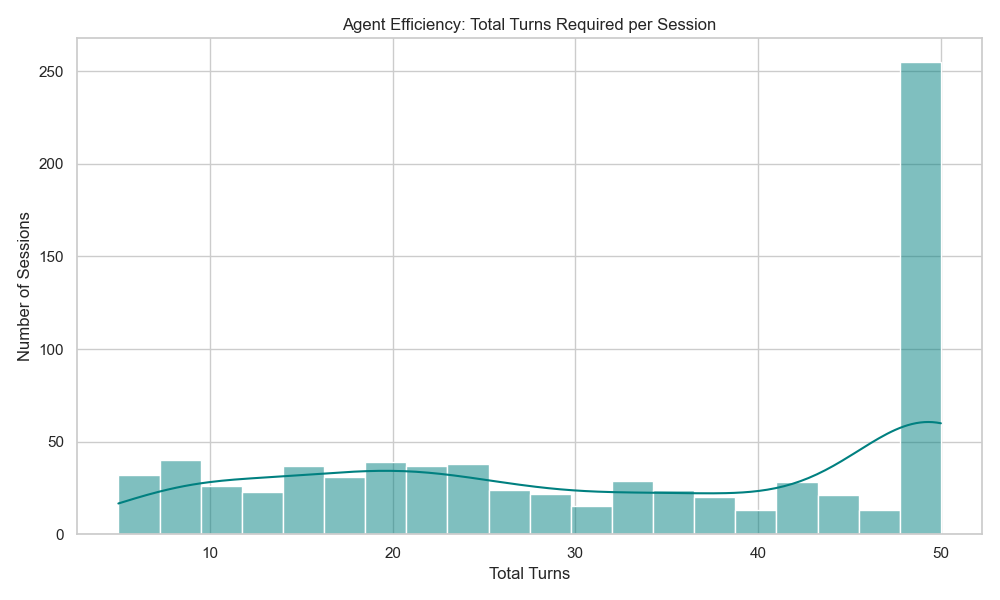
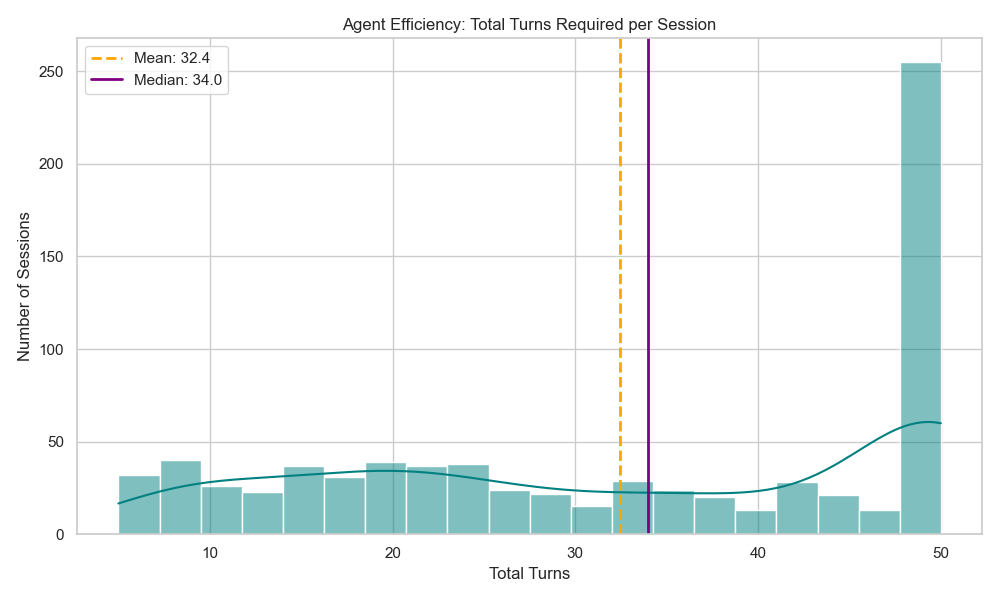
Modify plots, add more data

Changed region(s): [[0.62, 0.06, 0.651, 0.87], [0.093, 0.06, 0.217, 0.15]]

diff --git a/src/exploration/eda_analysis.py b/src/exploration/eda_analysis.py
@@ -24,27 +24,78 @@ class TelemetryEDA:
         logging.info(f"Loading data from {self.data_path}...")
         try:
             self.df = pd.read_csv(self.data_path)
+            
+            # Extract 'source' from 'session_id'
+            if 'session_id' in self.df.columns:
+                self.df['source'] = self.df['session_id'].str.split('__').str[0]
+                logging.info("Successfully extracted 'source' from 'session_id'.")
+            else:
+                logging.warning("'session_id' column not found. Cannot extract 'source'.")
+            
             logging.info(f"Data loaded successfully with {len(self.df)} records.")
         except Exception as e:
             logging.error(f"Failed to load data: {e}")
             raise
 
     def analyze_context_growth(self):
-        """Visualizes how input tokens grow as the turn number increases."""
-        logging.info("Analyzing context growth and token usage...")
-        if 'turn_number' not in self.df.columns or 'input_tokens' not in self.df.columns:
-            logging.warning("Missing 'turn_number' or 'input_tokens' columns. Skipping context growth analysis.")
+        """Visualizes how input tokens grow as the turn number increases, split into subplots by dataset source."""
+        logging.info("Analyzing context growth and token usage by dataset (Horizontal Subplots)...")
+        if not all(col in self.df.columns for col in ['turn_number', 'input_tokens', 'source']):
+            logging.warning("Missing 'turn_number', 'input_tokens', or 'source' columns. Skipping context growth analysis.")
             return
 
-        plt.figure(figsize=(10, 6))
-        sns.lineplot(data=self.df, x='turn_number', y='input_tokens', errorbar='sd')
-        plt.title('Context Explosion: Input Tokens vs. Turn Number')
-        plt.xlabel('Turn Number')
-        plt.ylabel('Input Tokens')
-        plt.tight_layout()
-        plt.savefig(os.path.join(self.output_dir, 'context_growth.png'))
-        plt.close()
+        # --- UPDATED: Horizontal layout, independent axes, same colors/styles ---
+        g = sns.relplot(
+            data=self.df, 
+            x='turn_number', 
+            y='input_tokens', 
+            col='source',       # Creates horizontal subplots side-by-side
+            hue='source',       # Keeps colors consistent for each source
+            kind='line', 
+            errorbar='sd',
+            height=5,           
+            aspect=1.2,
+            # This is the magic command to give each plot its own independent axes!
+            facet_kws={'sharey': False, 'sharex': False} 
+        )
         
+        # Customize overall figure layout and titles
+        g.fig.suptitle('Context Explosion: Input Tokens vs. Turn Number', y=1.05, fontsize=16)
+        g.set_titles(col_template="{col_name}")
+        
+        # Force axis labels to appear on EVERY individual subplot
+        for ax in g.axes.flat:
+            ax.set_xlabel('Turn Number')
+            ax.set_ylabel('Input Tokens')
+        
+        # Save the figure
+        plt.savefig(os.path.join(self.output_dir, 'context_growth.png'), bbox_inches='tight')
+        plt.close()
+        # ----------------------------------------------------------------------
+        
+    def analyze_token_distribution(self):
+        """Analyzes the distribution of input vs. output tokens."""
+        logging.info("Analyzing input vs. output token distribution...")
+        if not all(col in self.df.columns for col in ['input_tokens', 'output_tokens']):
+            logging.warning("Missing 'input_tokens' or 'output_tokens' columns. Skipping token distribution.")
+            return
+
+        # Melting the dataframe for side-by-side seaborn plotting
+        token_df = self.df[['input_tokens', 'output_tokens']].melt(
+            var_name='Token Type', value_name='Token Count'
+        )
+
+        plt.figure(figsize=(10, 6))
+        # Log scale boxplot to better visualize distributions without massive outliers warping the view
+        sns.boxplot(data=token_df, x='Token Type', y='Token Count', palette='Set2')
+        plt.yscale('log')
+        plt.title('Distribution: Input vs. Output Tokens (Log Scale)')
+        plt.ylabel('Token Count (Log Scale)')
+        plt.xlabel('')
+        plt.tight_layout()
+        plt.savefig(os.path.join(self.output_dir, 'token_distribution.png'))
+        plt.close()
+
     def analyze_latency_bottlenecks(self):
         """Investigates latency (pre_gap) distributions using logarithmic scaling."""
         logging.info("Analyzing latency and performance bottlenecks (Log Scaled)...")
@@ -105,9 +156,19 @@ class TelemetryEDA:
         # Plot distribution of total turns
         plt.figure(figsize=(10, 6))
         sns.histplot(session_stats['total_turns'], bins=20, kde=True, color='teal')
+        
+        # Calculate Mean and Median
+        mean_turns = session_stats['total_turns'].mean()
+        median_turns = session_stats['total_turns'].median()
+        
+        # Add vertical lines for mean and median
+        plt.axvline(mean_turns, color='orange', linestyle='--', linewidth=2, label=f'Mean: {mean_turns:.1f}')
+        plt.axvline(median_turns, color='purple', linestyle='-', linewidth=2, label=f'Median: {median_turns:.1f}')
+        
         plt.title('Agent Efficiency: Total Turns Required per Session')
         plt.xlabel('Total Turns')
         plt.ylabel('Number of Sessions')
+        plt.legend()
         plt.tight_layout()
         plt.savefig(os.path.join(self.output_dir, 'turn_efficiency_distribution.png'))
         plt.close()
@@ -120,6 +181,7 @@ class TelemetryEDA:
         """Executes the full EDA pipeline."""
         self.load_data()
         self.analyze_context_growth()
+        self.analyze_token_distribution()
         self.analyze_latency_bottlenecks()
         self.analyze_agent_efficiency()
         logging.info(f"EDA Complete. All plots saved to {self.output_dir}")
